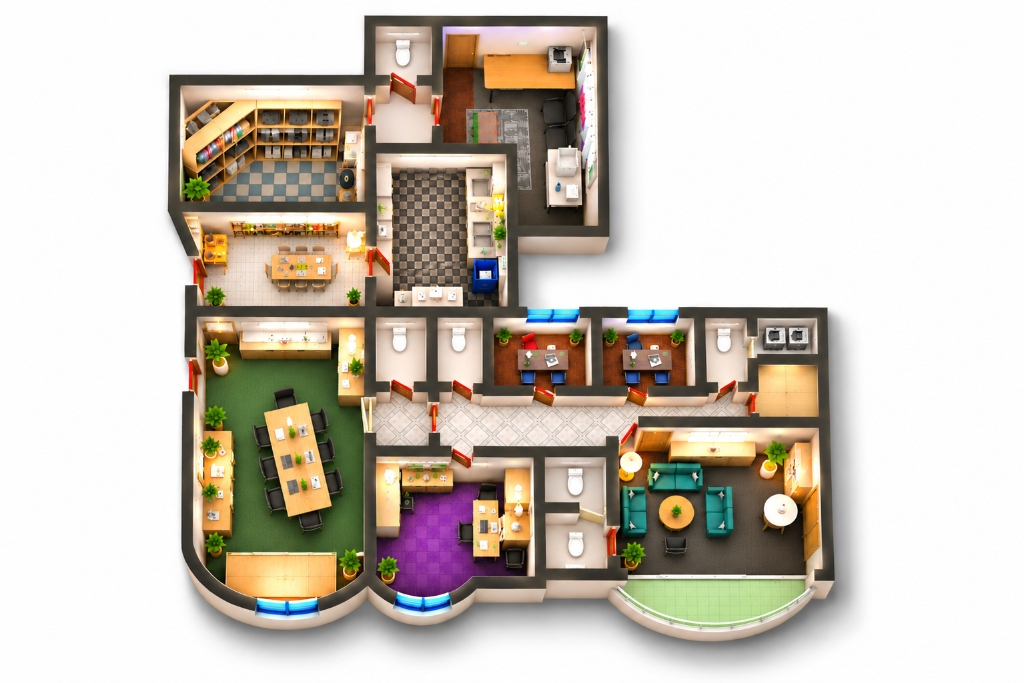
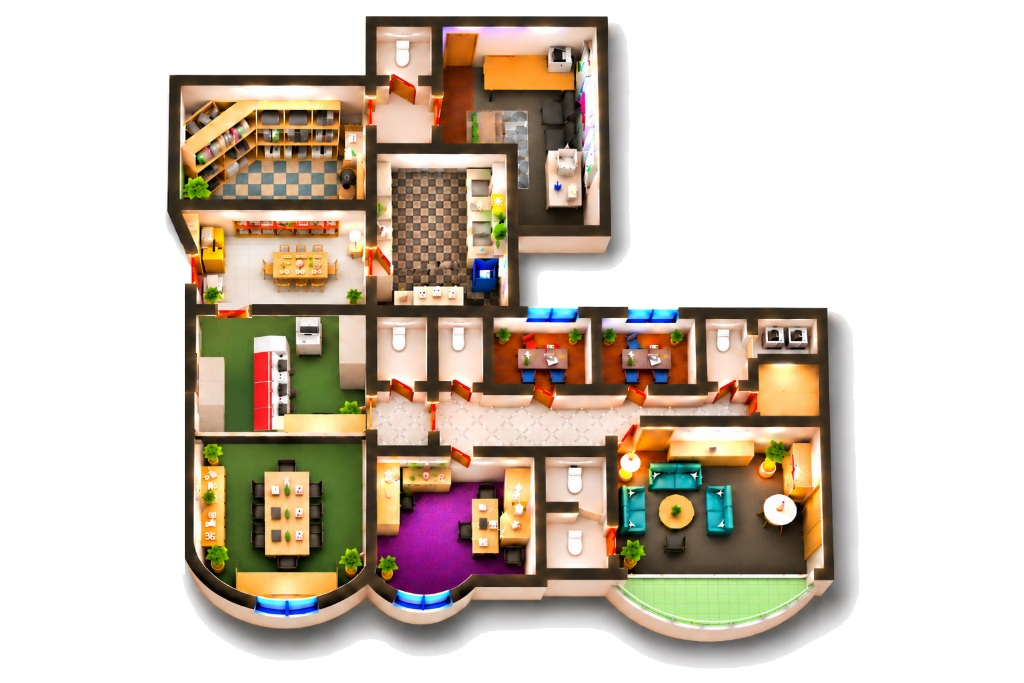
Kemas kini pelan isometrik 3D baharu dengan zon 4 bilik sayap kiri: stor, dapur, kaunter resepsi, dan dewan persidangan

Changed region(s): [[0.1562, 0.0, 0.8438, 0.9839], [0.8125, 0.8917, 0.8438, 0.9224], [0.7812, 0.9224, 0.8125, 0.9531]]

diff --git a/index.html b/index.html
@@ -720,7 +720,7 @@
             <!-- MOD 1: PELAN 3D ISOMETRIK (RENDER MEWAH DENGAN PENANDA INTERAKTIF) -->
             <div id="pelan-3d-viewport" class="overflow-hidden p-2 sm:p-4">
               <div class="relative rounded-2xl overflow-hidden border border-slate-200 shadow-md bg-slate-900 group">
-                <img id="img-3d-floor-plan" src="assets/floor-plan-3d.jpg" alt="Pelan 3D Isometrik UPK" class="w-full h-auto block select-none">
+                <img id="img-3d-floor-plan" src="assets/floor-plan-3d.png" alt="Pelan 3D Isometrik UPK" class="w-full h-auto block select-none">
                 
                 <!-- Lapisan SVG Interaktif Di Atas Pelan 3D (viewBox: 0 0 1024 683) -->
                 <svg id="svg-3d-overlay" viewBox="0 0 1024 683" class="absolute inset-0 w-full h-full pointer-events-auto">
@@ -731,8 +731,11 @@
                   <!-- 2. Dapur & Pantri (Kitchen - Middle-Left y:210..315) -->
                   <rect x="180" y="210" width="175" height="105" rx="4" class="svg-room" fill="#0F3E5D" data-room-id="BILIK-KITCHEN" onclick="App.selectMapRoom('BILIK-KITCHEN')" />
                   
-                  <!-- 3. Dewan Mesyuarat Utama (Meeting Room - Keseluruhan Karpet Hijau y:315..630) -->
-                  <path d="M 175 315 L 355 315 L 355 580 Q 265 640 175 580 Z" class="svg-room" fill="#10B981" data-room-id="BILIK-MEETING" onclick="App.selectMapRoom('BILIK-MEETING')" />
+                  <!-- 3a. Ruang Kaunter Khidmat Pelanggan & Resepsi (y:315..440) -->
+                  <rect x="180" y="315" width="175" height="125" rx="4" class="svg-room" fill="#10B981" data-room-id="BILIK-MEETING" onclick="App.selectMapRoom('BILIK-MEETING')" />
+
+                  <!-- 3b. Dewan Mesyuarat / Bilik Persidangan Utama (y:442..630) -->
+                  <path d="M 175 442 L 355 442 L 355 580 Q 265 640 175 580 Z" class="svg-room" fill="#10B981" data-room-id="BILIK-MEETING" onclick="App.selectMapRoom('BILIK-MEETING')" />
                   
                   <!-- 4. Tandas Sayap Utara (Top Toilet) -->
                   <rect x="360" y="25" width="65" height="85" rx="3" class="svg-room" fill="#0284C7" data-room-id="TANDAS-NORTH" onclick="App.selectMapRoom('TANDAS-NORTH')" />

diff --git a/js/api.js b/js/api.js
@@ -134,7 +134,7 @@ const API = (function () {
 
     // Dapatkan data setempat dari localStorage atau data awal
     let mockAset = JSON.parse(localStorage.getItem('upk_mock_aset') || 'null');
-    if (!mockAset || !mockAset[0]?.map3d_calibrated_v3) {
+    if (!mockAset || !mockAset[0]?.map3d_calibrated_v4) {
       mockAset = [
         {
           ID_Aset: 'UPK-AST-001',
@@ -148,7 +148,7 @@ const API = (function () {
           map_y: 390,
           map3d_x: 525,
           map3d_y: 350,
-          map3d_calibrated_v3: true,
+          map3d_calibrated_v4: true,
           Baki_Stok: 1,
           Paras_Amaran_Minimum: 0,
           Status_Aset: 'Beroperasi Baik',
@@ -235,8 +235,8 @@ const API = (function () {
           map_bilik_id: 'BILIK-MEETING',
           map_x: 210,
           map_y: 520,
-          map3d_x: 272,
-          map3d_y: 441,
+          map3d_x: 280,
+          map3d_y: 535,
           Baki_Stok: 1,
           Paras_Amaran_Minimum: 0,
           Status_Aset: 'Beroperasi Baik',
